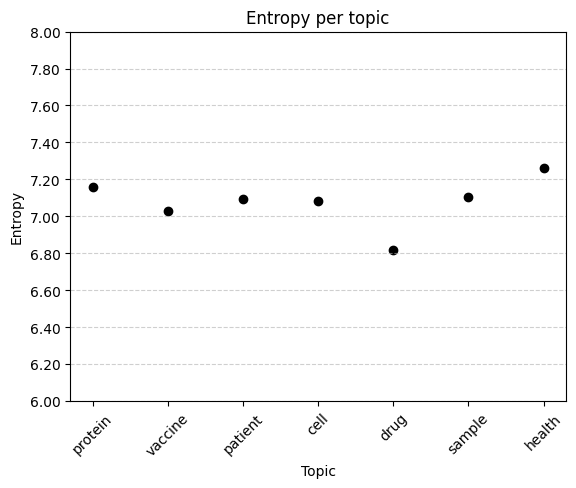
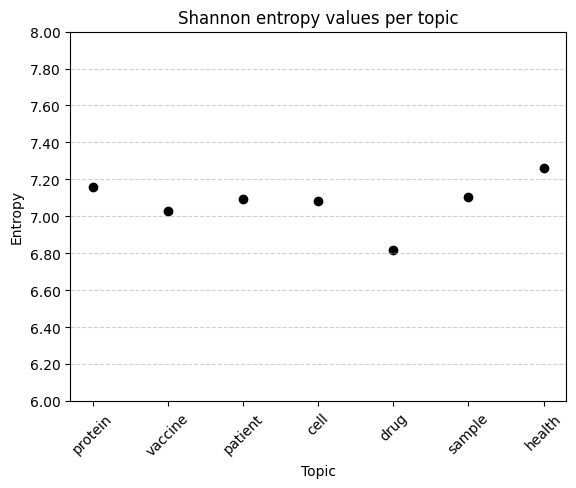
chore: docs: updated README.md

Changed region(s): [[0.3125, 0.0, 0.8125, 0.0615]]

diff --git a/TODO.md b/TODO.md
@@ -446,17 +446,18 @@ TOTAL: 38897
     - [ ] Create circle plot to visualize countries representaiton in the dataset
   - [ ] Get authors sex distribution --deprecated, no time
 
-- [ ] Capture the dispersion of disciplines
+- [x] Capture the dispersion of disciplines
   - [ ] Get Silhouette values --deprecated, no time
     - [ ] Check how they did it in this [paper](https://asistdl.onlinelibrary.wiley.com/doi/full/10.1002/asi.24533)
-  - [ ] Get topic entropy values
+  - [x] Get topic entropy values
     - [x] Check how they did it in this [paper](https://asistdl.onlinelibrary.wiley.com/doi/full/10.1002/asi.24533)
     - How diverse are the topics? Which one is the most diverse?
     - Which characteristics do these topics have? e.g., affiliations, disciplines, funding institutions
     - What is the topic entropy over time?
-    - [x] Calculate Jensen-Shannon divergences for document-topic distribution
-      - This gives the JS distances between documents
-    - [ ] 
+    - [x] Normalized document-topic probabilities to ensure they sum up to 1
+    - [x] Removed zeros to avoid log(0) issue
+    - [x] Calculated entropy values with base ln
+  - [x] Plot entropy values per topic
 
 - [ ] Get diagnostic topics --deprecated, no time
   - [ ] Check how they did it in this [paper](https://asistdl.onlinelibrary.wiley.com/doi/full/10.1002/asi.24533)
@@ -471,13 +472,30 @@ TOTAL: 38897
   - [ ] For all 5 top words of each diagnostic topic, get the sentences that contain the 5 words with the highest PMI
     - Are these common premises within the field?
 
+### 6.1. Results
+
+- Topic entropy values:
+  - Highest: health, 7.26
+  - Lowest: drug, 6.81
+  - Topics 'protein', 'vaccine', 'patient', and 'sample' have entropy values within a range of 7.00-7.20
+
+### 6.2. Observations
+
+- The most interdisciplinary topic wasn't 'vaccine' but 'health'. //TODO: It is misguiding to base our interpretations from the UMAP graph only. Address this in the discussion.
+
+- Health was the only topic that seemingly mixed and branched with the same topics, 'patient' and 'vaccine'. //TODO: Could this be associated with its highest entropy value? Address this in the discussion.
+
 ## 7. Replicate results
 
 - [ ] Re-run the project and compare original results with these Observations --deprecated, no time
 
 ## Additional
 
-- [ ] Review documentation
-  - [ ] Verify requirements.txt file
+- [x] Review documentation
+  - [x] Verify requirements.txt file
+  - [ ] Update README.medatata
+    - [x] Add requirements
+    - [x] Add explanation on how to set up the workspace
+    - [x] Create huggingface dataset
 
 - [ ] Untrack ``TODO.md`` file

diff --git a/README.md b/README.md
@@ -5,3 +5,43 @@
 The objective of this Thesis is to find the most diverse set of scientific papers from a given corpus. The diversity of a set of papers is measured by the number of different topics covered by the set. The set of papers with the highest diversity is called the megadiverse set.
 
 Hence, we address the following problem: given a corpus of scientific papers, find the megadiverse set of papers.
+
+## Requirements
+
+1. OS: Ubuntu LTS 20.04
+
+2. Download python: https://www.python.org/downloads/ --latest release is fine
+
+3. Install miniconda: https://docs.anaconda.com/free/miniconda/miniconda-install/
+
+## Set up work environment
+
+1. Create conda environment with Python 3.8.19
+
+    ```Python
+    conda create -n "myenv" python=3.8.19
+    ```
+
+2. Activate conda environment
+
+    ```Python
+    conda activate myenv
+    ```
+
+3. Install requirements
+
+    ```Python
+    pip install -r requirements.txt
+    ```
+
+4. Download dataset folder from here and add it to the `thesis_exp` project directory.
+
+5. Run application with these parameters in this order:
+
+    1. python main.py --eda
+    2. python main.py --metadata
+    3. python main.py --corpus
+    4. python main.py --eval
+    5. python main.py --lda
+    6. python main.py --umap
+    7. python main.py --entropy
